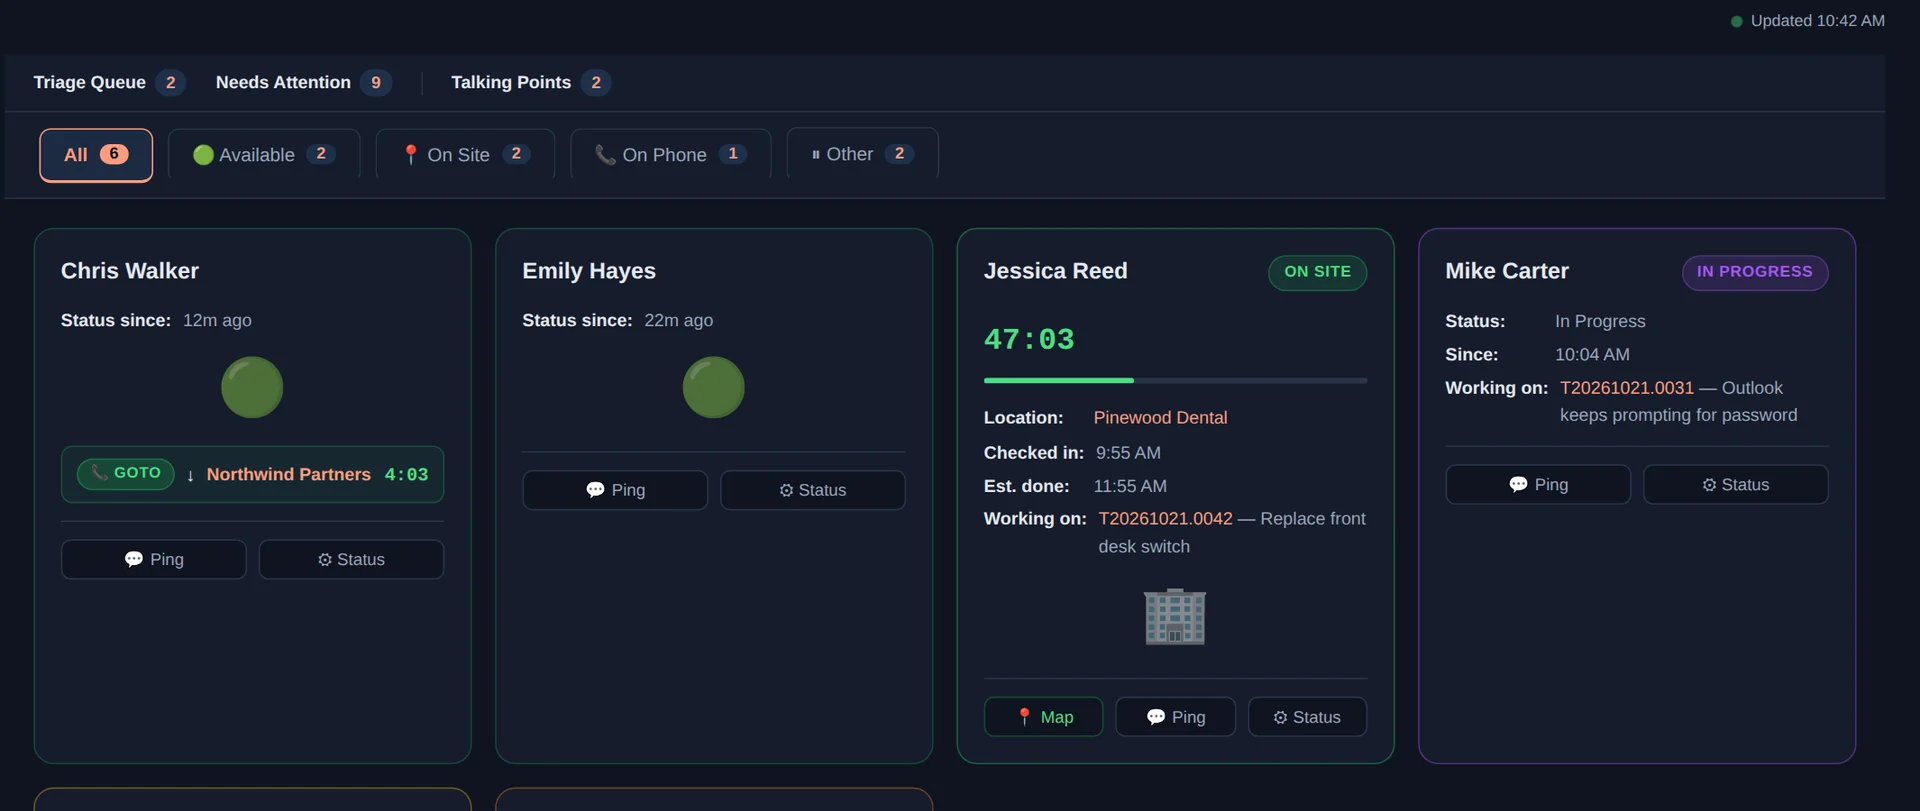
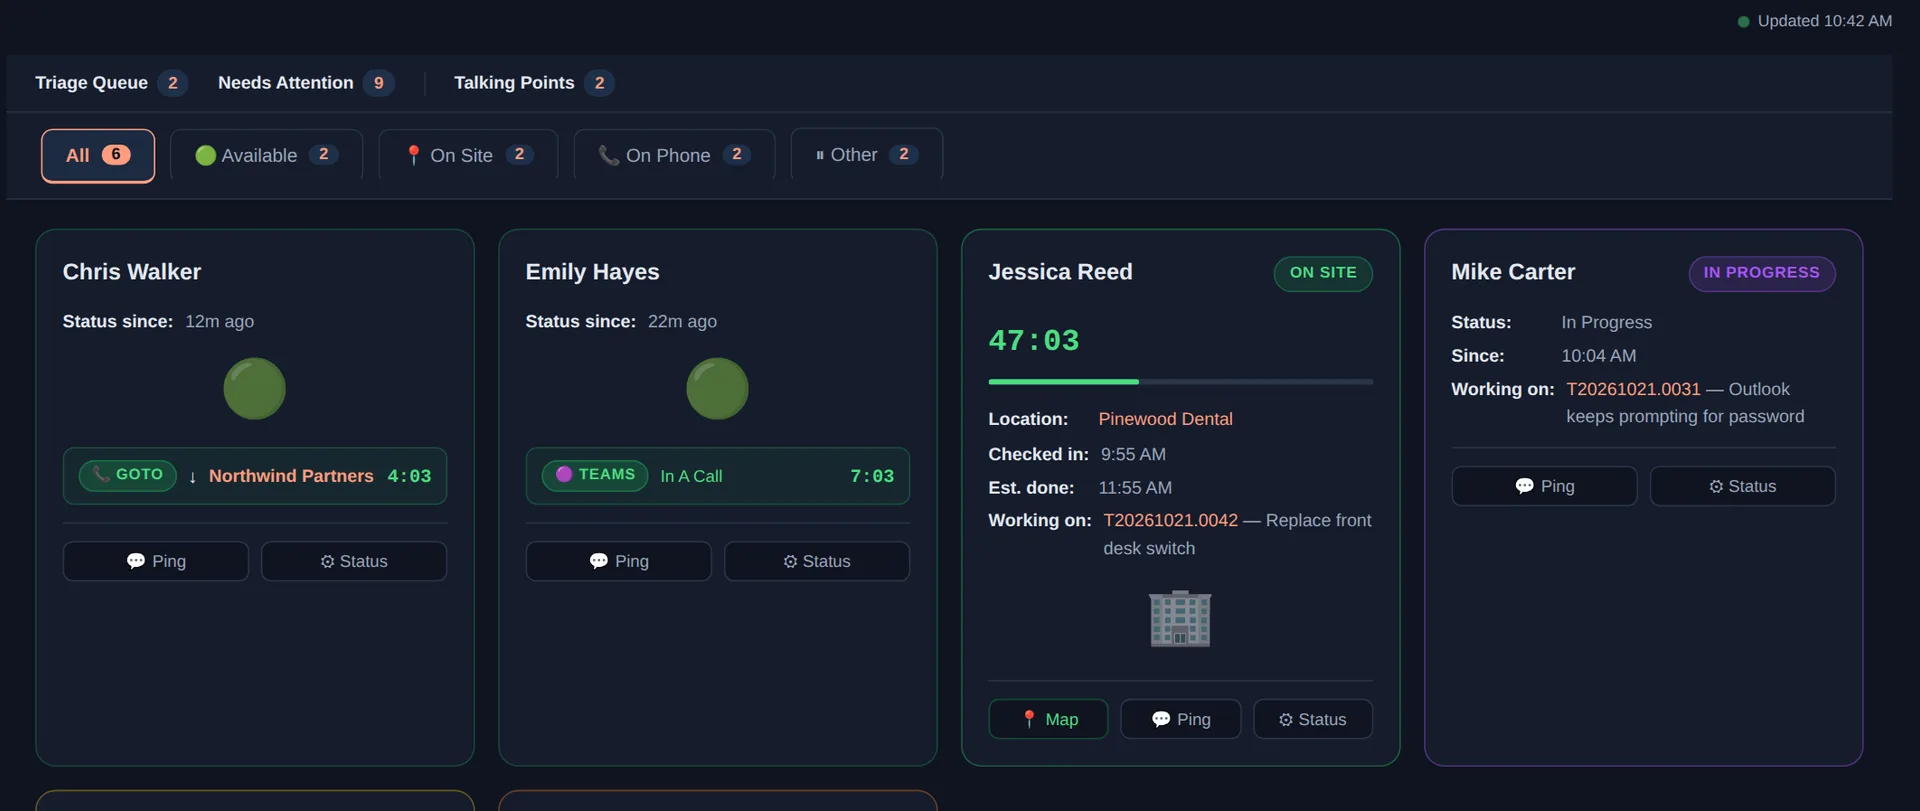
Phone menu gets a solid panel; click-to-enlarge screenshots; calmer Triage and Status Board images; Client Portal client-reviews section; cache-bust v2
Claude-Session: https://claude.ai/code/session_01H1hXvwEXiNwt8xK77StLbE

diff --git a/site/js/site.js b/site/js/site.js
@@ -205,6 +205,59 @@
         const open = !mobile.hidden;
         mobile.hidden = open;
         menuBtn.setAttribute('aria-expanded', String(!open));
+        menuBtn.setAttribute('aria-label', open ? 'Open menu' : 'Close menu');
+      });
+      document.addEventListener('keydown', (e) => {
+        if (e.key === 'Escape' && !mobile.hidden) { mobile.hidden = true; menuBtn.setAttribute('aria-expanded', 'false'); menuBtn.setAttribute('aria-label', 'Open menu'); menuBtn.focus(); }
+      });
+    }
+
+    // Click-to-enlarge for product screenshots (same behaviour as Nova's
+    // training guides). Built here so pages need no extra markup.
+    const shots = document.querySelectorAll('img[src*="assets/shots/"]');
+    if (shots.length) {
+      const lb = document.createElement('div');
+      lb.className = 'lb';
+      lb.setAttribute('role', 'dialog');
+      lb.setAttribute('aria-modal', 'true');
+      lb.setAttribute('aria-label', 'Enlarged screenshot');
+      lb.hidden = true;
+      lb.innerHTML = '<div class="lb-inner"><div class="lb-bar"><span class="lb-cap"></span>'
+        + '<button type="button" class="lb-close">Close &times;</button></div><img class="lb-img" src="" alt=""></div>';
+      document.body.appendChild(lb);
+      const lbImg = lb.querySelector('.lb-img');
+      const lbCap = lb.querySelector('.lb-cap');
+      const lbClose = lb.querySelector('.lb-close');
+      let lastFocus = null;
+      const openLb = (el) => {
+        lastFocus = document.activeElement;
+        lbImg.src = el.getAttribute('src');   // the full-size desktop image, even when a phone crop is showing
+        lbImg.alt = el.getAttribute('alt') || '';
+        lbCap.textContent = el.getAttribute('alt') || '';
+        lb.hidden = false;
+        document.body.style.overflow = 'hidden';
+        lbClose.focus();
+      };
+      const closeLb = () => {
+        lb.hidden = true;
+        lbImg.src = '';
+        document.body.style.overflow = '';
+        if (lastFocus && document.contains(lastFocus)) lastFocus.focus();
+        lastFocus = null;
+      };
+      lb.addEventListener('click', (e) => { if (e.target === lb || e.target === lbImg || e.target === lbClose || e.target.classList.contains('lb-inner')) closeLb(); });
+      document.addEventListener('keydown', (e) => {
+        if (lb.hidden) return;
+        if (e.key === 'Escape') closeLb();
+        else if (e.key === 'Tab') { e.preventDefault(); lbClose.focus(); }
+      });
+      shots.forEach((el) => {
+        el.classList.add('zoomable');
+        el.tabIndex = 0;
+        el.setAttribute('role', 'button');
+        el.setAttribute('aria-label', 'Enlarge: ' + (el.getAttribute('alt') || 'screenshot'));
+        el.addEventListener('click', () => openLb(el));
+        el.addEventListener('keydown', (e) => { if (e.key === 'Enter' || e.key === ' ') { e.preventDefault(); openLb(el); } });
       });
     }
 

diff --git a/site/features/status-board/index.html b/site/features/status-board/index.html
@@ -11,7 +11,7 @@
 <link rel="preconnect" href="https://fonts.googleapis.com">
 <link rel="preconnect" href="https://fonts.gstatic.com" crossorigin>
 <link href="https://fonts.googleapis.com/css2?family=Manrope:wght@400;500;600;700;800&family=JetBrains+Mono:wght@400;500&display=swap" rel="stylesheet">
-<link rel="stylesheet" href="../../css/site.css?v=1" />
+<link rel="stylesheet" href="../../css/site.css?v=2" />
 </head>
 <body>
 <div data-mn-header></div>
@@ -31,7 +31,7 @@
 
 <section style="padding:64px 0 0;">
   <div class="container">
-    <img loading="lazy" decoding="async" src="../../assets/shots/status-board.webp" alt="Tech Status Board: each tech's live state, call timers, onsite visits, lunch countdowns and Ping" style="display:block; width:100%; height:auto; border-radius:var(--r-lg); border:1px solid var(--c-navy-3); box-shadow:var(--shadow-xl);"/>
+    <img loading="lazy" decoding="async" src="../../assets/shots/status-board.webp?v=2" alt="Tech Status Board: each tech's live state, call timers, onsite visits, lunch countdowns and Ping" style="display:block; width:100%; height:auto; border-radius:var(--r-lg); border:1px solid var(--c-navy-3); box-shadow:var(--shadow-xl);"/>
   </div>
 </section>
 
@@ -114,7 +114,7 @@
           <li><span data-icon="check"></span><span>Logged-in user, last sync time, online indicator pinned top-right</span></li>
         </ul>
       </div>
-      <img loading="lazy" decoding="async" class="deepdive__shot mock-frame" src="../../assets/shots/status-board-top.webp" alt="Status Board header counters and filter chips: All, Available, On Site, On Phone"/>
+      <img loading="lazy" decoding="async" class="deepdive__shot mock-frame" src="../../assets/shots/status-board-top.webp?v=2" alt="Status Board header counters and filter chips: All, Available, On Site, On Phone"/>
     </div>
   </div>
 </section>
@@ -132,7 +132,7 @@
           <li><span data-icon="check"></span><span>Filter remembers your last view</span></li>
                   </ul>
       </div>
-      <img loading="lazy" decoding="async" class="deepdive__shot mock-frame" src="../../assets/shots/status-board-top.webp" alt="Status Board header counters and filter chips: All, Available, On Site, On Phone"/>
+      <img loading="lazy" decoding="async" class="deepdive__shot mock-frame" src="../../assets/shots/status-board-top.webp?v=2" alt="Status Board header counters and filter chips: All, Available, On Site, On Phone"/>
     </div>
   </div>
 </section>
@@ -265,6 +265,6 @@
 <style>
 .mock-frame { display:block; width:100%; height:auto; border-radius:var(--r-lg); border:1px solid var(--c-navy-3); box-shadow:var(--shadow-xl); background:#0a1628; overflow:hidden; }
 </style>
-<script src="../../js/site.js?v=1"></script>
+<script src="../../js/site.js?v=2"></script>
 </body>
 </html>

diff --git a/site/features/index.html b/site/features/index.html
@@ -15,7 +15,7 @@
 <link rel="preconnect" href="https://fonts.googleapis.com">
 <link rel="preconnect" href="https://fonts.gstatic.com" crossorigin>
 <link href="https://fonts.googleapis.com/css2?family=Manrope:wght@400;500;600;700;800&family=JetBrains+Mono:wght@400;500&display=swap" rel="stylesheet">
-<link rel="stylesheet" href="../css/site.css?v=1" />
+<link rel="stylesheet" href="../css/site.css?v=2" />
 
 <style>
 /* Compact features hub — short scan-first page, deep dives linked out. */
@@ -165,7 +165,7 @@
       <a class="fgroup__deep" href="/features/triage/">Deep dive →</a>
     </div>
     <div class="fgroup__body">
-      <img loading="lazy" decoding="async" class="fgroup__mock" src="../assets/shots/triage.webp" alt="Nova Triage queue: AI-suggested priority, impact, urgency and classification on each new ticket, with a Triage button to accept" />
+      <img loading="lazy" decoding="async" class="fgroup__mock" src="../assets/shots/triage.webp?v=2" alt="Nova Triage queue: AI-suggested priority, impact, urgency and classification on each new ticket, with a Triage button to accept" />
       <div class="fpills">
         <div class="fpill"><span class="fpill__num">/ 01</span><div><h3 class="fpill__title">AI Triage</h3><p class="fpill__hook">Every incoming ticket classified within moments — priority, queue, type, issue and category.</p></div></div>
         <div class="fpill"><span class="fpill__num">/ 02</span><div><h3 class="fpill__title">Confidence on Every Call</h3><p class="fpill__hook">Each suggestion carries a confidence level. Low-confidence calls are flagged for a closer look.</p></div></div>
@@ -195,7 +195,7 @@
         <div class="fpill"><span class="fpill__num">/ 08</span><div><h3 class="fpill__title">Ticket Aging</h3><p class="fpill__hook">Bucketed by age, from same-day to 30 days and older. Stale tickets float to the top.</p></div></div>
         <div class="fpill"><span class="fpill__num">/ 09</span><div><h3 class="fpill__title">Daily Huddle Briefings</h3><p class="fpill__hook">An automated morning briefing posted to Teams. Read in a couple of minutes.</p></div></div>
       </div>
-      <img loading="lazy" decoding="async" class="fgroup__mock" src="../assets/shots/status-board.webp" alt="Tech Status Board: each tech's live state, call timers, onsite visits, lunch countdowns and Ping" />
+      <img loading="lazy" decoding="async" class="fgroup__mock" src="../assets/shots/status-board.webp?v=2" alt="Tech Status Board: each tech's live state, call timers, onsite visits, lunch countdowns and Ping" />
     </div>
   </div>
 </section>
@@ -390,6 +390,6 @@
 </section>
 
 <div data-mn-footer></div>
-<script src="../js/site.js?v=1"></script>
+<script src="../js/site.js?v=2"></script>
 </body>
 </html>

diff --git a/site/features/client-portal/index.html b/site/features/client-portal/index.html
@@ -11,7 +11,7 @@
 <link rel="preconnect" href="https://fonts.googleapis.com">
 <link rel="preconnect" href="https://fonts.gstatic.com" crossorigin>
 <link href="https://fonts.googleapis.com/css2?family=Manrope:wght@400;500;600;700;800&family=JetBrains+Mono:wght@400;500&display=swap" rel="stylesheet">
-<link rel="stylesheet" href="../../css/site.css?v=1" />
+<link rel="stylesheet" href="../../css/site.css?v=2" />
 
 <!-- TODO: paste Cloudflare Web Analytics <script> here -->
 </head>
@@ -121,6 +121,26 @@
   </div>
 </section>
 
+<!-- Client reviews -->
+<section class="bg-light">
+  <div class="container deepdive">
+    <div class="deepdive__grid">
+      <div>
+        <div class="deepdive__head">/ Client reviews</div>
+        <h3 class="h-2" style="font-size:36px;">Open the results together.</h3>
+        <p class="muted" style="font-size:16px;line-height:1.6;">When you meet with a client, open their monthly service report in the portal and walk through it on screen. Nova drafts it from the month's tickets: volume, resolution rate, average time to resolve and critical issues, with a plain-language summary of the month. Your team reviews it and publishes it, and the client's managers can come back to it any time.</p>
+        <ul class="deepdive__bullets">
+          <li><span data-icon="check"></span><span>Headline numbers and a written summary of the month</span></li>
+          <li><span data-icon="check"></span><span>Click a number or a category to see the tickets behind it</span></li>
+          <li><span data-icon="check"></span><span>Earlier months are one click away</span></li>
+          <li><span data-icon="check"></span><span>Clients see a report only after you publish it</span></li>
+        </ul>
+      </div>
+      <img loading="lazy" decoding="async" class="deepdive__shot mock-frame" src="../../assets/shots/portal-report.webp" alt="Monthly service report in the client portal: tickets, resolution rate, average resolution time, critical issues, a written summary and activity by category"/>
+    </div>
+  </div>
+</section>
+
 <!-- CTA -->
 <section class="section cta">
   <svg class="cta__chev" viewBox="0 0 100 110" fill="#fff" aria-hidden="true">
@@ -145,6 +165,6 @@
 .mock-frame { display:block; width:100%; height:auto; border-radius:var(--r-lg); border:1px solid var(--c-navy-3); box-shadow:var(--shadow-xl); background:#0a1628; overflow:hidden; }
 
 </style>
-<script src="../../js/site.js?v=1"></script>
+<script src="../../js/site.js?v=2"></script>
 </body>
 </html>

diff --git a/site/css/site.css b/site/css/site.css
@@ -212,7 +212,39 @@ button { font-family: inherit; cursor: pointer; }
 }
 @media (max-width: 980px) {
   .site-nav, .site-header__cta { display: none; }
-  .site-header__menu-btn { display: inline-flex; }
+  .site-header__menu-btn { display: inline-flex; margin-left: auto; }
+}
+/* The phone menu hangs below the 72px header, so it needs its own panel;
+   without one its white links were drawn straight over the page. */
+.site-header__mobile {
+  position: absolute; top: 100%; left: 0; right: 0;
+  background: var(--c-navy-0);
+  border-bottom: 1px solid var(--c-navy-3);
+  box-shadow: 0 16px 32px rgba(0, 0, 0, 0.35);
+  max-height: calc(100vh - 72px); max-height: calc(100dvh - 72px);
+  overflow-y: auto;
+}
+.site-header__mobile[hidden] { display: none; }
+
+/* ---------- SCREENSHOT LIGHTBOX ---------- */
+img.zoomable { cursor: zoom-in; }
+img.zoomable:focus-visible { outline: 2px solid var(--c-accent); outline-offset: 3px; }
+.lb { position: fixed; inset: 0; z-index: 200; background: rgba(10, 22, 40, 0.98); padding: 24px; overflow: auto; }
+.lb[hidden] { display: none; }
+.lb-inner { max-width: 1760px; margin: 0 auto; min-height: 100%; display: flex; flex-direction: column; justify-content: center; }
+.lb-bar { display: flex; align-items: center; gap: 12px; margin-bottom: 12px; }
+.lb-cap { flex: 1; min-width: 0; font-size: 14px; color: var(--c-fg-on-dark-2); }
+.lb-close { flex: 0 0 auto; min-height: 44px; padding: 8px 16px; background: var(--c-navy-2); color: #fff; border: 1px solid var(--c-navy-3); border-radius: var(--r-md); font: inherit; font-size: 14px; cursor: pointer; }
+.lb-close:hover, .lb-close:focus-visible { border-color: var(--c-accent); color: var(--c-accent); outline: none; }
+.lb-img { display: block; width: 100%; height: auto; border: 1px solid var(--c-navy-3); border-radius: var(--r-lg); cursor: zoom-out; }
+/* On a phone, "fit to width" is no bigger than the inline image, so open it
+   tall instead and let the reader pan sideways (pinch-zoom still works). */
+@media (max-width: 640px) {
+  .lb { padding: 12px; }
+  .lb-inner { justify-content: flex-start; align-items: flex-start; }
+  .lb-bar { position: sticky; left: 0; width: calc(100vw - 24px); }
+  .lb-cap { font-size: 13px; }
+  .lb-img { width: auto; max-width: none; height: 70vh; }
 }
 
 /* ---------- FOOTER ---------- */

diff --git a/site/index.html b/site/index.html
@@ -85,7 +85,7 @@
 <link href="https://fonts.googleapis.com/css2?family=Manrope:wght@400;500;600;700;800&family=JetBrains+Mono:wght@400;500&display=swap" rel="stylesheet">
 
 <!-- Styles -->
-<link rel="stylesheet" href="css/site.css?v=1" />
+<link rel="stylesheet" href="css/site.css?v=2" />
 
 <!-- JSON-LD: Organization + SoftwareApplication -->
 <script type="application/ld+json">
@@ -171,7 +171,7 @@
         </div>
       </div>
       <div class="hero__mock">
-        <img class="mock-frame mock-frame--hero" src="assets/shots/triage.webp" alt="Nova Triage queue: AI-suggested priority, impact, urgency and classification on each new ticket, with a Triage button to accept"/>
+        <img class="mock-frame mock-frame--hero" src="assets/shots/triage.webp?v=2" alt="Nova Triage queue: AI-suggested priority, impact, urgency and classification on each new ticket, with a Triage button to accept"/>
       </div>
     </div>
   </div>
@@ -287,7 +287,7 @@
         </ul>
         <a class="btn btn-link" href="/features/triage/" style="margin-top: 28px;">Read the triage deep dive →</a>
       </div>
-      <img loading="lazy" decoding="async" class="deepdive__shot mock-frame" src="assets/shots/triage.webp" alt="Nova Triage queue: AI-suggested priority, impact, urgency and classification on each new ticket, with a Triage button to accept"/>
+      <img loading="lazy" decoding="async" class="deepdive__shot mock-frame" src="assets/shots/triage.webp?v=2" alt="Nova Triage queue: AI-suggested priority, impact, urgency and classification on each new ticket, with a Triage button to accept"/>
     </div>
   </div>
 </section>
@@ -487,6 +487,6 @@
 .mock-frame--field::after    { content: 'FIELD OPS · placeholder'; }
 </style>
 
-<script src="js/site.js?v=1"></script>
+<script src="js/site.js?v=2"></script>
 </body>
 </html>

diff --git a/site/features/triage/index.html b/site/features/triage/index.html
@@ -11,7 +11,7 @@
 <link rel="preconnect" href="https://fonts.googleapis.com">
 <link rel="preconnect" href="https://fonts.gstatic.com" crossorigin>
 <link href="https://fonts.googleapis.com/css2?family=Manrope:wght@400;500;600;700;800&family=JetBrains+Mono:wght@400;500&display=swap" rel="stylesheet">
-<link rel="stylesheet" href="../../css/site.css?v=1" />
+<link rel="stylesheet" href="../../css/site.css?v=2" />
 
 <!-- TODO: paste Cloudflare Web Analytics <script> here -->
 </head>
@@ -34,7 +34,7 @@
 <!-- Big mockup -->
 <section style="padding:64px 0 0;">
   <div class="container">
-    <img loading="lazy" decoding="async" src="../../assets/shots/triage.webp" alt="Nova Triage queue: AI-suggested priority, impact, urgency and classification on each new ticket, with a Triage button to accept" style="display:block; width:100%; height:auto; border-radius:var(--r-lg); border:1px solid var(--c-navy-3); box-shadow:var(--shadow-xl); "/>
+    <img loading="lazy" decoding="async" src="../../assets/shots/triage.webp?v=2" alt="Nova Triage queue: AI-suggested priority, impact, urgency and classification on each new ticket, with a Triage button to accept" style="display:block; width:100%; height:auto; border-radius:var(--r-lg); border:1px solid var(--c-navy-3); box-shadow:var(--shadow-xl); "/>
   </div>
 </section>
 
@@ -178,6 +178,6 @@
 <style>
 .mock-frame { display:block; width:100%; height:auto; border-radius:var(--r-lg); border:1px solid var(--c-navy-3); box-shadow:var(--shadow-xl); background:#0a1628; overflow:hidden; }
 </style>
-<script src="../../js/site.js?v=1"></script>
+<script src="../../js/site.js?v=2"></script>
 </body>
 </html>

diff --git a/site/contact/index.html b/site/contact/index.html
@@ -11,7 +11,7 @@
 <link rel="preconnect" href="https://fonts.googleapis.com">
 <link rel="preconnect" href="https://fonts.gstatic.com" crossorigin>
 <link href="https://fonts.googleapis.com/css2?family=Manrope:wght@400;500;600;700;800&family=JetBrains+Mono:wght@400;500&display=swap" rel="stylesheet">
-<link rel="stylesheet" href="../css/site.css?v=1" />
+<link rel="stylesheet" href="../css/site.css?v=2" />
 
 <!-- TODO: paste Cloudflare Web Analytics <script> here -->
 <style>@media (max-width: 860px) { .contact-grid { grid-template-columns: 1fr !important; gap: 32px !important; } }
@@ -32,7 +32,7 @@
 
 <section style="padding:64px 0 0;">
   <div class="container">
-    <img loading="lazy" decoding="async" src="../assets/shots/status-board.webp" alt="Tech Status Board: each tech's live state, call timers, onsite visits, lunch countdowns and Ping" style="display:block; width:100%; height:auto; border-radius:var(--r-lg); border:1px solid var(--c-navy-3); box-shadow:var(--shadow-xl); "/>
+    <img loading="lazy" decoding="async" src="../assets/shots/status-board.webp?v=2" alt="Tech Status Board: each tech's live state, call timers, onsite visits, lunch countdowns and Ping" style="display:block; width:100%; height:auto; border-radius:var(--r-lg); border:1px solid var(--c-navy-3); box-shadow:var(--shadow-xl); "/>
   </div>
 </section>
 
@@ -101,6 +101,6 @@
 
 <div data-mn-footer></div>
 
-<script src="../js/site.js?v=1"></script>
+<script src="../js/site.js?v=2"></script>
 </body>
 </html>

diff --git a/site/features/field-ops/index.html b/site/features/field-ops/index.html
@@ -11,7 +11,7 @@
 <link rel="preconnect" href="https://fonts.googleapis.com">
 <link rel="preconnect" href="https://fonts.gstatic.com" crossorigin>
 <link href="https://fonts.googleapis.com/css2?family=Manrope:wght@400;500;600;700;800&family=JetBrains+Mono:wght@400;500&display=swap" rel="stylesheet">
-<link rel="stylesheet" href="../../css/site.css?v=1" />
+<link rel="stylesheet" href="../../css/site.css?v=2" />
 
 <!-- TODO: paste Cloudflare Web Analytics <script> here -->
 </head>
@@ -82,7 +82,7 @@
         </ul>
         <a class="btn btn-link" href="/features/status-board/" style="margin-top: 20px;">Tech Status Board deep dive →</a>
       </div>
-      <img loading="lazy" decoding="async" class="deepdive__shot mock-frame" src="../../assets/shots/status-board.webp" alt="Tech Status Board: each tech's live state, call timers, onsite visits, lunch countdowns and Ping"/>
+      <img loading="lazy" decoding="async" class="deepdive__shot mock-frame" src="../../assets/shots/status-board.webp?v=2" alt="Tech Status Board: each tech's live state, call timers, onsite visits, lunch countdowns and Ping"/>
     </div>
   </div>
 </section>
@@ -111,6 +111,6 @@
 .mock-frame { display:block; width:100%; height:auto; border-radius:var(--r-lg); border:1px solid var(--c-navy-3); box-shadow:var(--shadow-xl); background:#0a1628; overflow:hidden; }
 
 </style>
-<script src="../../js/site.js?v=1"></script>
+<script src="../../js/site.js?v=2"></script>
 </body>
 </html>

diff --git a/site/features/needs-attention/index.html b/site/features/needs-attention/index.html
@@ -11,7 +11,7 @@
 <link rel="preconnect" href="https://fonts.googleapis.com">
 <link rel="preconnect" href="https://fonts.gstatic.com" crossorigin>
 <link href="https://fonts.googleapis.com/css2?family=Manrope:wght@400;500;600;700;800&family=JetBrains+Mono:wght@400;500&display=swap" rel="stylesheet">
-<link rel="stylesheet" href="../../css/site.css?v=1" />
+<link rel="stylesheet" href="../../css/site.css?v=2" />
 
 <!-- TODO: paste Cloudflare Web Analytics <script> here -->
 </head>
@@ -145,6 +145,6 @@
 .mock-frame { display:block; width:100%; height:auto; border-radius:var(--r-lg); border:1px solid var(--c-navy-3); box-shadow:var(--shadow-xl); background:#0a1628; overflow:hidden; }
 
 </style>
-<script src="../../js/site.js?v=1"></script>
+<script src="../../js/site.js?v=2"></script>
 </body>
 </html>

diff --git a/site/sitemap.html b/site/sitemap.html
@@ -11,7 +11,7 @@
 <link rel="preconnect" href="https://fonts.googleapis.com">
 <link rel="preconnect" href="https://fonts.gstatic.com" crossorigin>
 <link href="https://fonts.googleapis.com/css2?family=Manrope:wght@400;500;600;700;800&family=JetBrains+Mono:wght@400;500&display=swap" rel="stylesheet">
-<link rel="stylesheet" href="css/site.css?v=1" />
+<link rel="stylesheet" href="css/site.css?v=2" />
 
 <!-- TODO: paste Cloudflare Web Analytics <script> here -->
 </head>
@@ -83,6 +83,6 @@
 .sitemap-list a { color: var(--c-fg-1); text-decoration: none; font-weight: 500; }
 .sitemap-list a:hover { color: var(--c-accent); }
 </style>
-<script src="js/site.js?v=1"></script>
+<script src="js/site.js?v=2"></script>
 </body>
 </html>

diff --git a/site/integrations/index.html b/site/integrations/index.html
@@ -11,7 +11,7 @@
 <link rel="preconnect" href="https://fonts.googleapis.com">
 <link rel="preconnect" href="https://fonts.gstatic.com" crossorigin>
 <link href="https://fonts.googleapis.com/css2?family=Manrope:wght@400;500;600;700;800&family=JetBrains+Mono:wght@400;500&display=swap" rel="stylesheet">
-<link rel="stylesheet" href="../css/site.css?v=1" />
+<link rel="stylesheet" href="../css/site.css?v=2" />
 
 <!-- TODO: paste Cloudflare Web Analytics <script> here -->
 </head>
@@ -237,6 +237,6 @@
 <style>
 .int-badge--lg { width: 56px; height: 56px; font-size: 18px; border-radius: var(--r-md); }
 </style>
-<script src="../js/site.js?v=1"></script>
+<script src="../js/site.js?v=2"></script>
 </body>
 </html>
